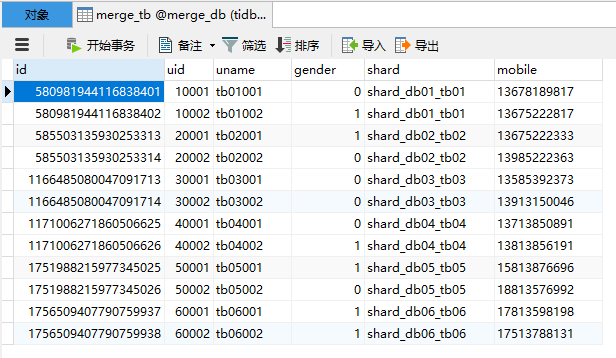
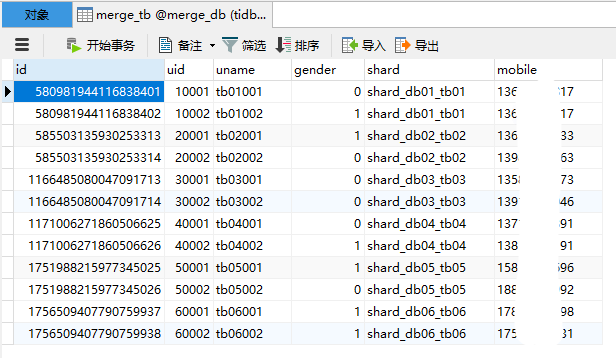
update Paragraph number

diff --git a/session4/chapter5/from-sharding-to-tidb.md b/session4/chapter5/from-sharding-to-tidb.md
@@ -1,6 +1,6 @@
 # 5.1.2 DM 同步分库分表 MySQL 到 TiDB 的实践
 
-## DM 分库分表安装部署实战
+## 5.1.2.1 DM 分库分表安装部署实战
 
 本实战模拟企业生产环境阿里云 DRDS 中间件对业务表进行分库分表后，这边使用 DM 工具将线上分库分表数据同步至 TiDB 中：
 1. 解决跨业务跨库的数据查询分析
@@ -11,7 +11,7 @@
 
 此外 dm 在 loader 恢复时支持断点操作，支持幂等 binlog 重做，不用担心恢复中意外而前功尽弃。
 
-### 环境说明
+### 1. 环境说明
 
 实验环境宿主机的用户名、密码与数据库的用户名、密码一致。
 
@@ -24,9 +24,9 @@
 | 192.168.128.133   | centos7.3 x86_64   | dm-worker   | dm-worker   | root/password   |
 | 192.168.206.28   | centos7.3 x86_64   | TiDB 库   | 4000 端口   | root/password   |
 
-### 准备工作
+### 2. 准备工作
 
-**第一步：使用 root 权限登录中控机 132 上并安装依赖包**
+**第一步：使用 root 账号登录中控机 192.168.128.132 上并安装依赖包**
 
 ```
 [tidb@dmmaster ~]# yum -y install epel-release git curl sshpass 
@@ -41,7 +41,7 @@
 ```
 2、为 tidb 用户设置密码
 ```
-[tidb@dmmaster ~]# echo "password"|passwd --stdin tidb
+[tidb@dmmaster ~]# echo "password" | passwd --stdin tidb
 ```
 3、为 tidb 用户设置免密使用 sudo
 ```
@@ -124,7 +124,7 @@ root@localhost >grant Reload,Replication slave, Replication client,select on *.*
 [tidb@dmmaster bin]$ dmctl -encrypt tidb@2020
 BXTTVvKeWhXgAefaFRNoN0BS4XjZ85uZByE=
 ```
-### 部署 dm-worker
+### 3. 部署 dm-worker
 **第一步：编写 inventory.ini 文件**
 
 此处我们主要定义 dm-master 和 dm-worker，本章采取单台部署多台 dm-worker。
@@ -205,7 +205,7 @@ localhost      : ok=4    changed=0    unreachable=0    failed=0
 prometheus     : ok=13   changed=4    unreachable=0    failed=0 
 #出现以上信息表示 dm 启动成功，此时已经开始同步上游 binlog 至 dm 机器中。
 ```
-### 配置启动 task
+### 4. 配置 & 启动 task
 **上游数据库结构合并至下游 TiDB 说明**
 
 |上游分库|上游分表|下游合并库名|下游合并表名|
@@ -231,28 +231,28 @@ CREATE TABLE shard_tb01~06 (
 ) ENGINE=InnoDB DEFAULT CHARSET=utf8mb4 COMMENT='分库分表';
 INSERT INTO shard_db01.shard_tb01 
 (uid,uname,gender,shard,mobile) VALUES
-('10001','tb01001','0','shard_db01_tb01','13678189817'),('10002','tb01002','1','shard_db01_tb01','13675222817');
+('10001','tb01001','0','shard_db01_tb01','136******17'),('10002','tb01002','1','shard_db01_tb01','136******17');
 INSERT INTO shard_db02.shard_tb02 
-(uid,uname,gender,shard,mobile) VALUES ('20001','tb02001','1','shard_db02_tb02','13675222333'), ('20002','tb02002','0','shard_db02_tb02','13985222363');
+(uid,uname,gender,shard,mobile) VALUES ('20001','tb02001','1','shard_db02_tb02','136******33'), ('20002','tb02002','0','shard_db02_tb02','139******63');
 INSERT INTO shard_db03.shard_tb03 
-(uid,uname,gender,shard,mobile) VALUES ('30001','tb03001','0','shard_db03_tb03','13585392373'),
-('30002','tb03002','0','shard_db03_tb03','13913150046');
+(uid,uname,gender,shard,mobile) VALUES ('30001','tb03001','0','shard_db03_tb03','135******73'),
+('30002','tb03002','0','shard_db03_tb03','139******46');
 
 INSERT INTO shard_db04.shard_tb04 
-(uid,uname,gender,shard,mobile) VALUES ('40001','tb04001','0','shard_db04_tb04','13713850891'),('40002','tb04002','1','shard_db04_tb04','13813856191');
+(uid,uname,gender,shard,mobile) VALUES ('40001','tb04001','0','shard_db04_tb04','137******91'),('40002','tb04002','1','shard_db04_tb04','138******91');
 INSERT INTO shard_db05.shard_tb05 
-(uid,uname,gender,shard,mobile) VALUES ('50001','tb05001','1','shard_db05_tb05','15813876696'),('50002','tb05002','0','shard_db05_tb05','18813576992');
+(uid,uname,gender,shard,mobile) VALUES ('50001','tb05001','1','shard_db05_tb05','158******96'),('50002','tb05002','0','shard_db05_tb05','188******92');
 INSERT INTO shard_db06.shard_tb06 
-(uid,uname,gender,shard,mobile) VALUES ('60001','tb06001','1','shard_db06_tb06','17813598198'),('60002','tb06002','1','shard_db06_tb06','17513788131');
+(uid,uname,gender,shard,mobile) VALUES ('60001','tb06001','1','shard_db06_tb06','178******98'),('60002','tb06002','1','shard_db06_tb06','175******31');
 ```
 
 **合库合表 task 的 yaml 文件**
 
 ```
 [tidb@tidb-dm-4-0-95 task]$ cat shardmysql_to_tidb.yaml
-name: "shard_to_tidb"   #task 名称，必须全局唯一
-is-sharding: true    #上游是不是进行了分库分表库
-task-mode: "all"    #迁移同步方式 full-全量、incremental-增量、all-全量+增加
+name: "shard_to_tidb"  #task 名称，必须全局唯一
+is-sharding: true      #上游是不是进行了分库分表库
+task-mode: "all"       #迁移同步方式 full-全量、incremental-增量、all-全量+增加
 meta-schema: "tidb_meta"   #定义下游保留迁移点位信息库名称
 remove-meta: false
 target-database:                                   
@@ -307,7 +307,7 @@ routes:
     target-schema: "merge_db"
     target-table:  "merge_tb"
     
-#由于上游数据库使用了自增主键，此处我们需要定义下游主键重算处理
+#由于上游数据库使用了自增主键，此处我们需要定义下游主键重算处理，该功能需要谨慎使用
 #特别注意上游的自增主键不能有任何业务关系
 column-mappings:
   cm001:
@@ -347,7 +347,7 @@ mydumpers:
     threads:
     chunk-filesize: 64
     skip-tz-utc: true
-    extra-args: "  --no-locks "
+    extra-args: " --no-locks "
 loaders:
   global:
     pool-size: 64
@@ -396,7 +396,7 @@ shard_db02.shard_tb02.sql
 ```
 **删除备份的数据，必须保留表库结构信息否则会出错**
 ```
-[root@dmworker dumped_data.shard_to_tidb]# ls|grep -v schema|xargs rm -f
+[root@dmworker dumped_data.shard_to_tidb]# ls | grep -v schema | xargs rm -f
 [root@dmworker dumped_data.shard_to_tidb]# ls
 shard_db01.shard_tb01-schema.sql    shard_db02.shard_tb02-schema.sql 
 shard_db02-schema-create.sql
@@ -406,8 +406,8 @@ shard_db02-schema-create.sql
 ![图片](/res/session4/chapter5/from-sharding-to-tidb/from-sharding-tidb-1.png)
 
 
-## DM 常用管理命令
-### dm-worker 部署管理
+## 5.1.2.2 DM 常用管理命令
+### 1. dm-worker 部署管理
 **部署命令 deploy.yml**
 
 ```
@@ -431,8 +431,8 @@ shard_db02-schema-create.sql
 [tidb@dmmaster dm-ansible]$ ansible-playbook rolling_update.yml
 *此三个yml命令也可以配合-l、--tags一起使用。
 ```
-### dm-worker task 管理
-**管理 Tas k需要使用 dmctl 连接上中控机，输入 help 查看所有命令信息**
+### 2. dm-worker task 管理
+**管理 task 需要使用 dmctl 连接上中控机，输入 help 查看所有命令信息**
 
 ```
 #连接中控
@@ -472,7 +472,7 @@ shard_db02-schema-create.sql
 #查看 shard_to_tidb 任务当前状态
 »query-error shard_to_tidb
 ```
-**skip_sql 跳过正在执行的sql语句**
+**skip_sql 跳过正在执行的 SQL 语句**
 
 ```
 #查看出错的 binlog 位置(failedBinlogPosition)，确定是否可以路过错误
